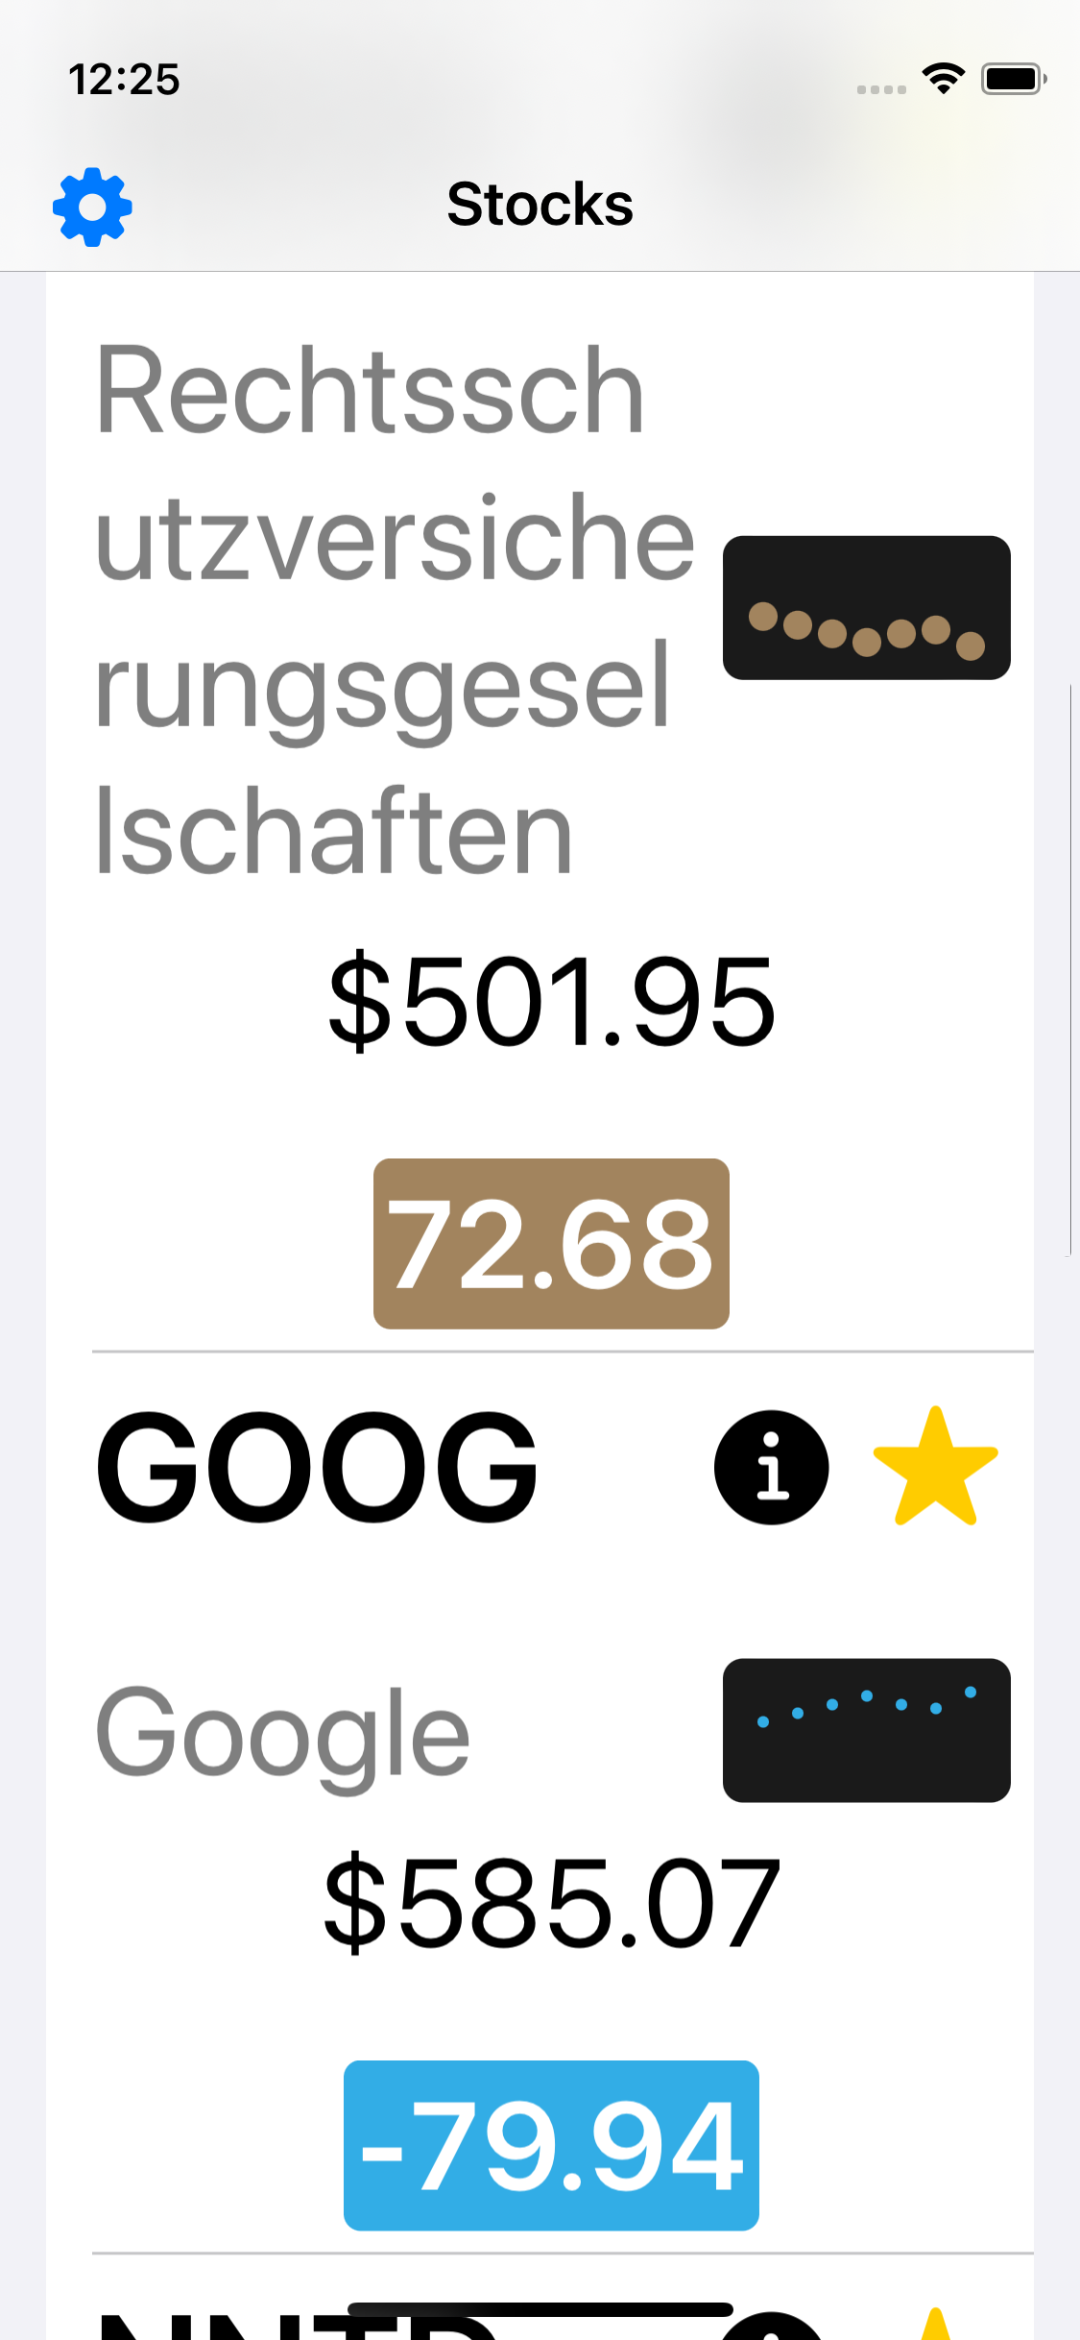
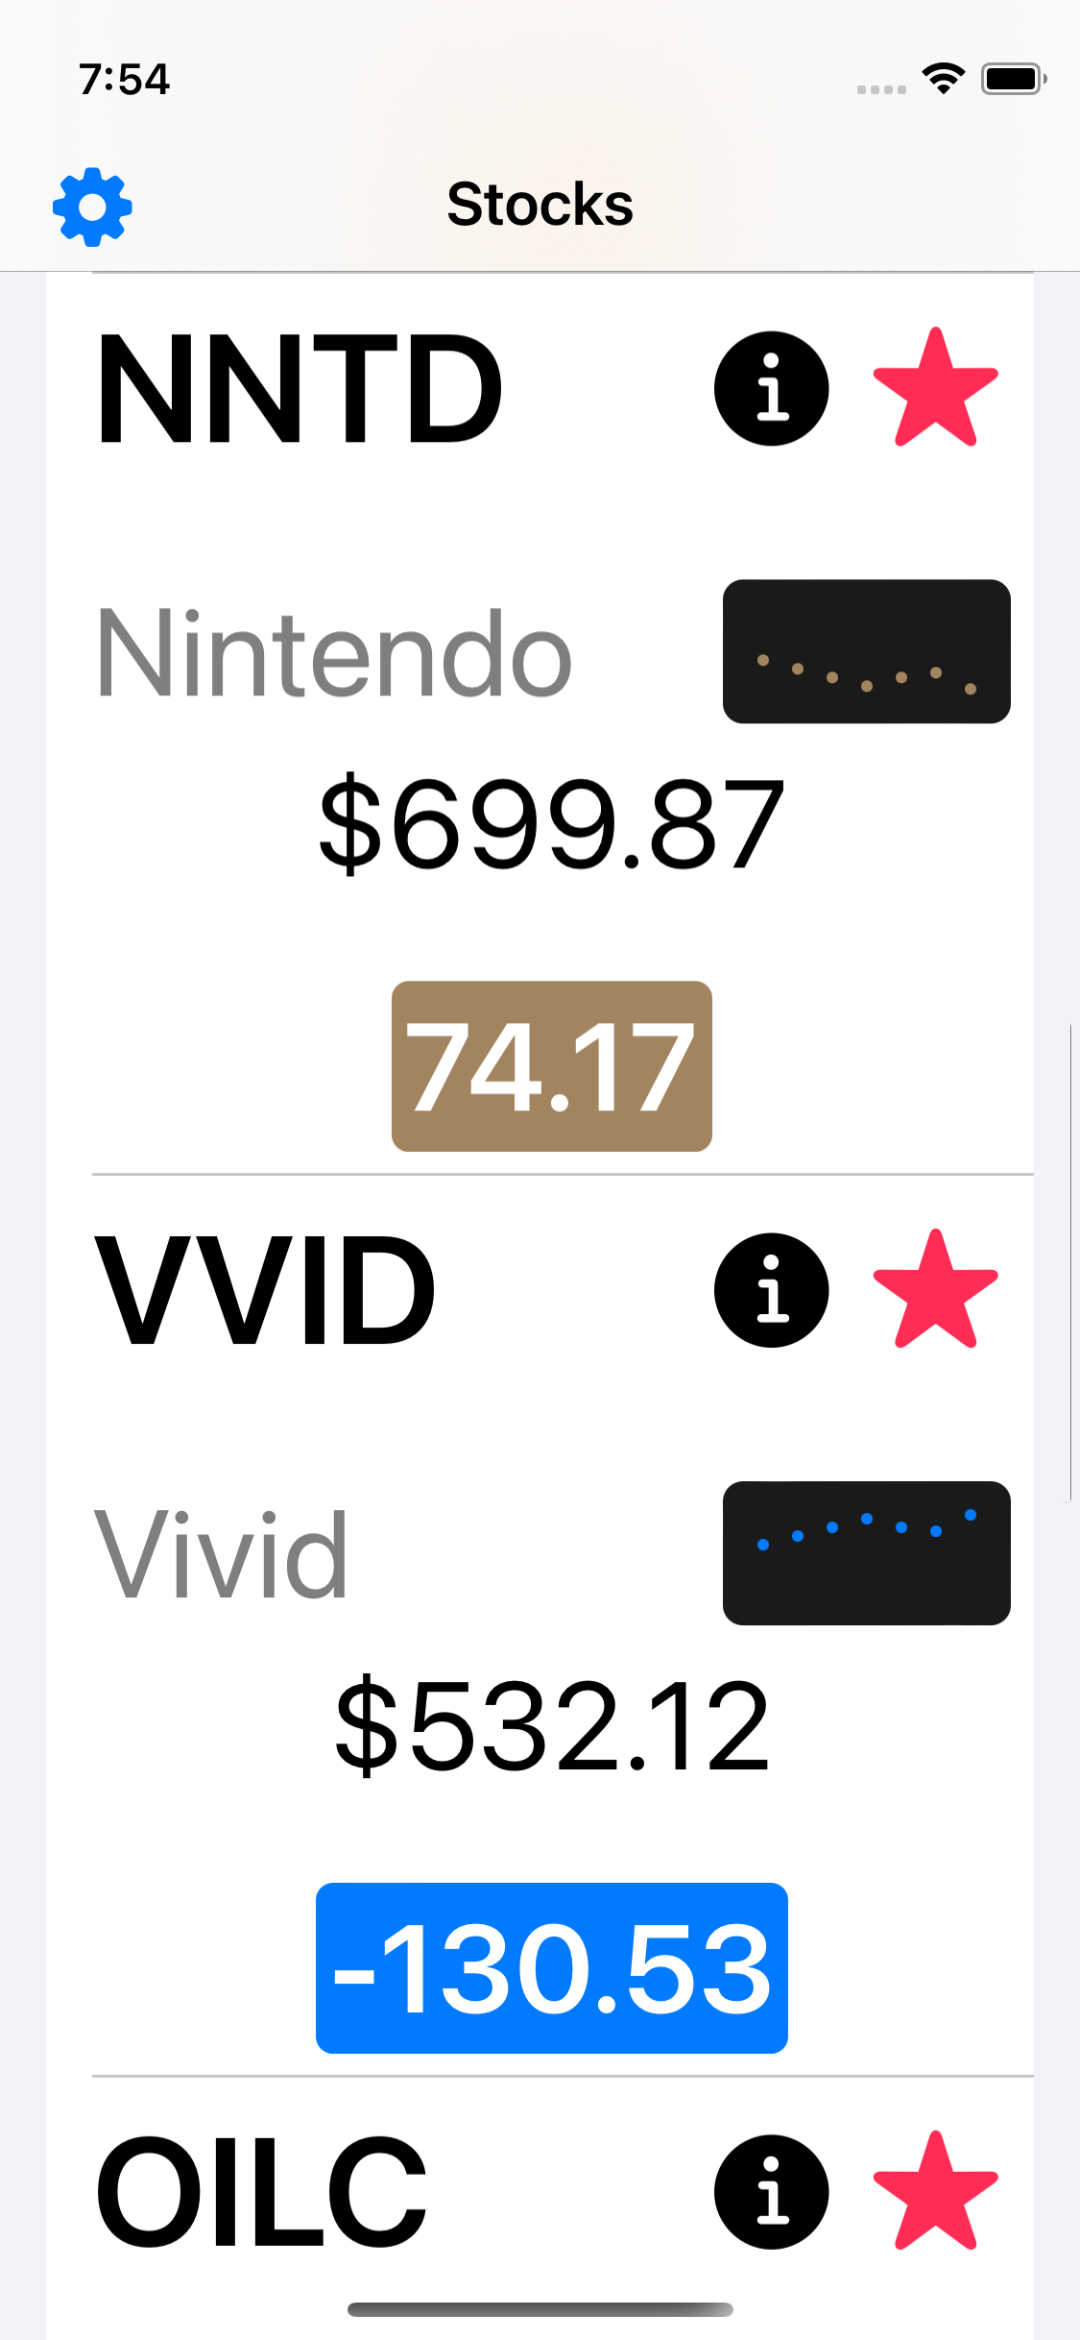
Since I added the ability to change the color scheme it didn't make sense not to have this ability for the colored star.

diff --git a/InAccessibility-cwu/Views/Settings.swift b/InAccessibility-cwu/Views/Settings.swift
@@ -9,11 +9,14 @@ import SwiftUI
 
 struct Settings: View {
     @AppStorage(UserDefConstants.ColorblindMode) var colorBlindModeFound : ColorBlindMode = UserDefConstants.ColorblindModeDefault
+    @AppStorage(UserDefConstants.StarColor) var starColorFound : StarColors = UserDefConstants.StarColorDefault
+    
+    @State var starColorChoices : [ Color ] = [.yellow]
     
     var body: some View {
         Form {
             Section {
-                Picker("Choose colors", selection: $colorBlindModeFound) {
+                Picker("Choose Colors For Stock Change", selection: $colorBlindModeFound) {
                     ForEach(ColorBlindMode.allCases, id:\.self) { oneColorMode in
                         VStack(alignment: .leading) {
                             Text("\(oneColorMode.rawValue)")
@@ -28,8 +31,23 @@ struct Settings: View {
                             }
                         }
                         .accessibilityElement(children: .combine)
-                        .accessibilityLabel(Text("Choose colors"))
+                        .accessibilityLabel(Text("Choose Colors For Stock Change"))
                         .accessibilityHint(Text("\(makeAccessibilityHints(colorMode: oneColorMode))"))
+                    }
+                }
+                
+                Picker("Choose Star Color", selection: $starColorFound) {
+                    ForEach(StarColors.allCases, id:\.self) { oneStarColor in
+                        VStack(alignment: .leading) {
+                            Text("\(starColorToUse(desiredColor: oneStarColor).description)")
+                            
+                            Rectangle()
+                                .foregroundColor(starColorToUse(desiredColor: oneStarColor))
+                                .frame(width: UIConstants.ColorChoiceSize, height: UIConstants.ColorChoiceSize)
+                        }
+                        .accessibilityElement(children: .combine)
+                        .accessibilityLabel(Text("Choose Star Color"))
+                        .accessibilityHint(Text("A \(starColorToUse(desiredColor:oneStarColor).description) colored star will indicate a favorite."))
                     }
                 }
             } header: {

diff --git a/InAccessibility-cwu/Views/StockCell.swift b/InAccessibility-cwu/Views/StockCell.swift
@@ -10,6 +10,8 @@ import SwiftUI
 struct StockCell: View {
     @Environment(\.dynamicTypeSize) var dynamicTypeSize
     
+    @AppStorage(UserDefConstants.StarColor) var starColorFound : StarColors = UserDefConstants.StarColorDefault
+    
     @State var showInfo = false
     
     let stock: Stock
@@ -38,19 +40,19 @@ struct StockCell: View {
                         }
                         .accessibilityAddTraits(.isButton)
                         .accessibilityLabel(Text("Info"))
-                        .accessibilityHint(Text("Shows current stock price for the company."))
+                        .accessibilityHint(Text("Shows current stock price for \(stock.shortName)."))
                     
                     Text("\(Image(systemName: "star.fill"))")
                     //Image(systemName: "star.fill")
                         .scaledToFit()
                         //.frame(width: 16, height: 16)
                         .font(UIConstants.SmallGraphicsSize)
-                        .foregroundColor(UIConstants.StarColor)
+                        .foregroundColor(starColorToUse(desiredColor: starColorFound))
                         .opacity(stock.favorite ? 1 : 0)
                         .accessibilityHidden(!stock.favorite)
                         .accessibilityAddTraits(.isButton)
                         .accessibilityLabel(Text("Favorite indicator"))
-                        .accessibilityHint(Text("A \(UIConstants.StarColor.description) star indicating it's a favorite." + MessageConstants.TapForCompanyInfo))
+                        .accessibilityHint(Text("A \(starColorToUse(desiredColor: starColorFound).description) star indicating \(stock.shortName) is a favorite company." + MessageConstants.TapForCompanyInfo))
                 }
      
             }

diff --git a/InAccessibility-cwu/Model/StockConstants.swift b/InAccessibility-cwu/Model/StockConstants.swift
@@ -11,24 +11,17 @@ import SwiftUI
 enum UIConstants {
     static let SmallGraphicsSize : Font = .caption2
     static let ColorChoiceSize : CGFloat = 40
-    static let StarColor : Color = .yellow
 }
 
 enum MessageConstants {
-    static let TapForCompanyInfo = "Tap for info about the company."
+    static let TapForCompanyInfo = "Shows details about the company."
 }
 
 enum UserDefConstants {
-    static let ColorblindMode = "ColorblindMode"
+    static let Start = "InAccessibility" // so the entries added by this app to userdefaults can be easily found and deleted later if so desired.
+    static let ColorblindMode = Start + "ColorblindMode"
+    static let StarColor = Start + "StarColor"
     static let ColorblindModeDefault : ColorBlindMode = .greenRed
+    static let StarColorDefault : StarColors = .yellowStar
 }
 
-enum ColorBlindMode : String, Codable, CaseIterable {
-    case greenRed = "Green Red",
-         greenPurple = "Green Purple",
-         blueOrange = "Blue Orange",
-         blueRed = "Blue Red",
-         blueBrown = "Blue Brown",
-         cyanBrown = "Cyan Brown",
-         yellowPink = "Yellow Pink"
-}

diff --git a/InAccessibility-cwu/Screens/DetailView.swift b/InAccessibility-cwu/Screens/DetailView.swift
@@ -7,13 +7,6 @@
 
 import SwiftUI
 
-enum AlertItem: String, Identifiable {
-    case share
-    case favorite
-    
-    var id: String { self.rawValue }
-}
-
 struct DetailView: View {
     @Environment(\.dismiss) var dismiss
     
@@ -111,6 +104,7 @@ struct DetailView: View {
             .buttonStyle(.borderedProminent)
             .tint(colorsToUse(modeToUse: colorBlindModeFound).greenColor)
             .controlSize(.large)
+            .accessibilityHint(Text("Share this company."))
             
             // i've never seen a yellow button and can't shake the feeling the text was hard to read.
             Button {
@@ -124,6 +118,7 @@ struct DetailView: View {
             .buttonStyle(.borderedProminent)
             .tint(colorsToUse(modeToUse: colorBlindModeFound).redColor)
             .controlSize(.large)
+            .accessibilityHint(Text("Save this company as a favorite."))
         }
     }
 }

diff --git a/InAccessibility-cwu/Model/enums.swift b/InAccessibility-cwu/Model/enums.swift
@@ -1,0 +1,29 @@
+//
+//  enums.swift
+//  InAccessibility-cwu
+//
+//  Created by Chris Wu on 5/26/22.
+//
+
+import Foundation
+
+enum ColorBlindMode : String, Codable, CaseIterable {
+    case greenRed = "Green Red",
+         greenPurple = "Green Purple",
+         blueOrange = "Blue Orange",
+         blueRed = "Blue Red",
+         blueBrown = "Blue Brown",
+         cyanBrown = "Cyan Brown",
+         yellowPink = "Yellow Pink"
+}
+
+enum AlertItem: String, Identifiable {
+    case share
+    case favorite
+    
+    var id: String { self.rawValue }
+}
+
+enum StarColors : String, Hashable, CaseIterable {
+    case yellowStar, blueStar, cyanStar, redStar, purpleStar, orangeStar, brownStar, pinkStar
+}

diff --git a/InAccessibility-cwu/Model/Helpers.swift b/InAccessibility-cwu/Model/Helpers.swift
@@ -38,3 +38,24 @@ func colorsToUse(modeToUse : ColorBlindMode) -> (greenColor : Color, redColor : 
             return (greenColor: .yellow, redColor: .pink)
     }
 }
+
+func starColorToUse(desiredColor : StarColors) -> Color {
+    switch desiredColor {
+        case .yellowStar:
+            return .yellow
+        case .blueStar:
+            return .blue
+        case .cyanStar:
+            return .cyan
+        case .redStar:
+            return .red
+        case .purpleStar:
+            return .purple
+        case .orangeStar:
+            return .orange
+        case .brownStar:
+            return .brown
+        case .pinkStar:
+            return .pink
+    }
+}

diff --git a/InAccessibility-cwu/Screens/MainView.swift b/InAccessibility-cwu/Screens/MainView.swift
@@ -78,6 +78,7 @@ struct MainView: View {
             ToolbarItem(placement: .navigationBarLeading) {
                 NavigationLink(destination: Settings()) {
                     Text("\(Image(systemName: "gearshape.fill"))")
+                        .accessibilityAddTraits(.isButton)
                         .accessibilityLabel(Text("Settings"))
                         .accessibilityHint(Text("Change the color scheme."))
                 }
